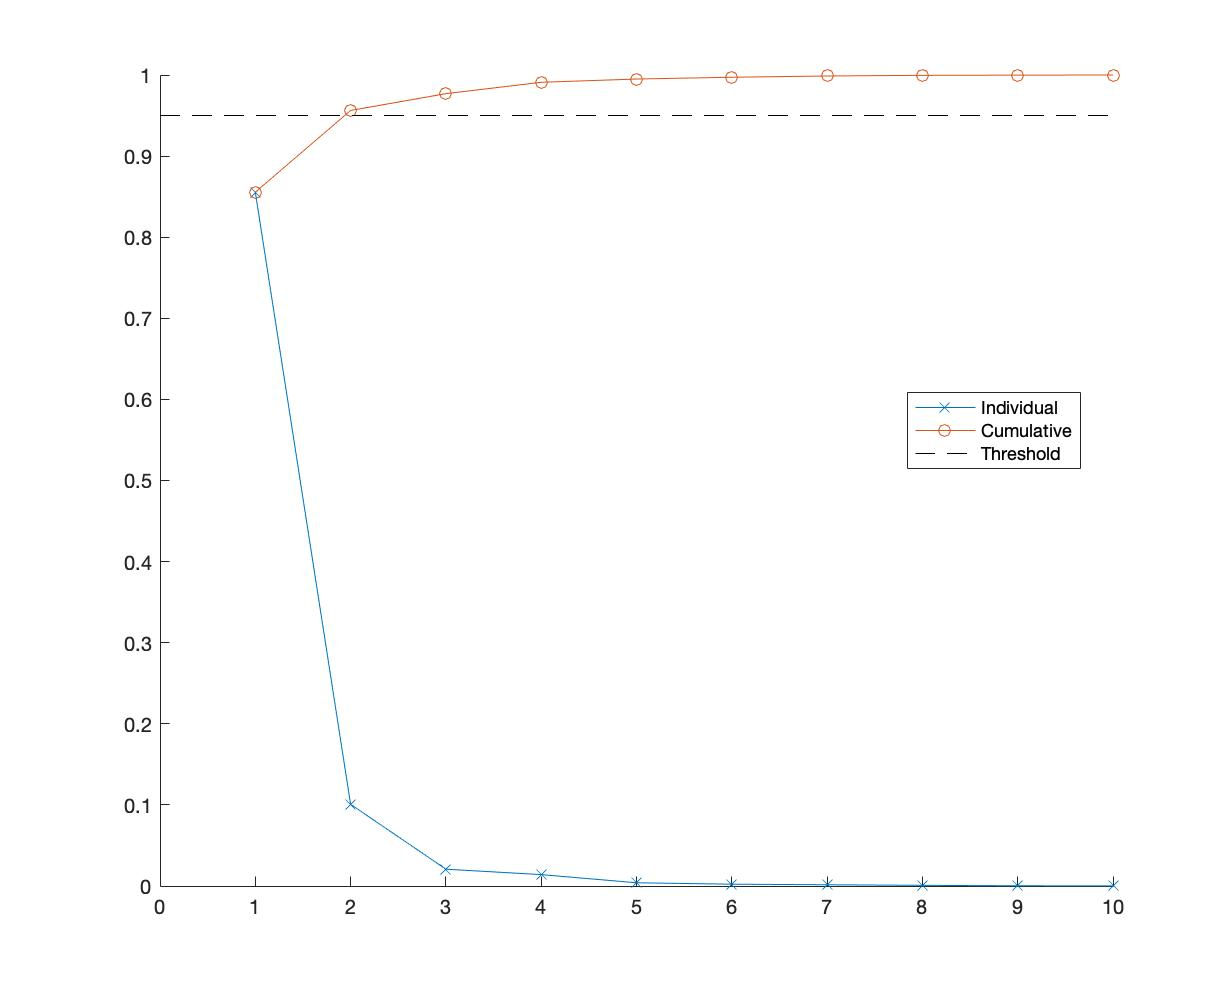
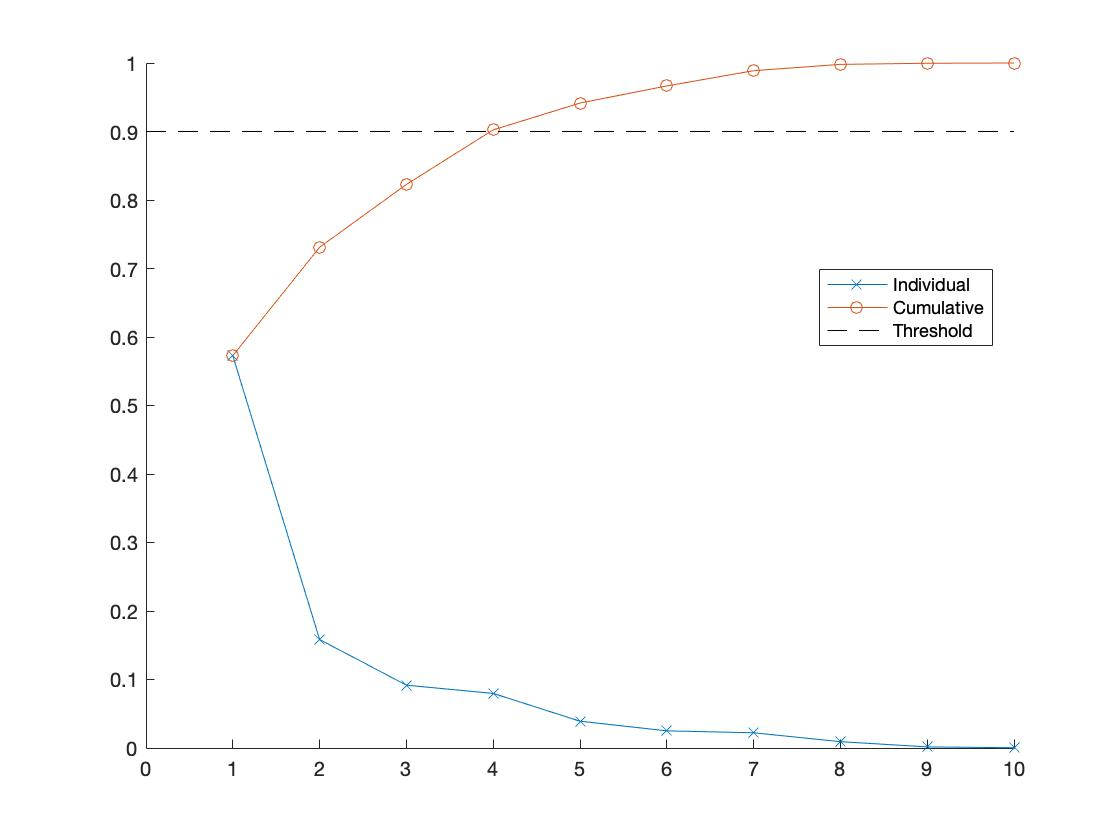
New pictures and updated PCA.m

diff --git a/PCA.m b/PCA.m
@@ -19,16 +19,16 @@ A(166,:) = [];
 class = table2array(FF_table(:,15));
 class(166) = [];
 
-% Subtracting the mean. 
-A = A - mean(A);
+% Normalizing our data. 
+Anormalized = (A - mean(A))./std(A);
 
 % Computing the SVD. 
-[U,S,V] = svd(A);
+[U,S,V] = svd(Anormalized);
 
 % Computing the explained variance.  
 rho = diag(S).^2./sum(diag(S).^2);
 
-threshold = 0.95;
+threshold = 0.90;
 
 %%
 
@@ -42,11 +42,12 @@ legend({'Individual','Cumulative','Threshold'},'Location','best');
 %%
 
 figure(2);
-gscatter(A(:,1),A(:,2),class);
+gscatter(Anormalized(:,1),Anormalized(:,2),class);
 
 %%
 
 Z = U*S;
+proj = (V'*Anormalized')';
 
 %%
 
@@ -55,17 +56,24 @@ gscatter(Z(:,1),Z(:,2),class);
 
 %%
 
-pcs = 1:2;
+% The same as figure(3). 
 
 figure(4);
-bar(V(:,1:2));
+gscatter(proj(:,1),proj(:,2),class);
+
+%%
+
+pcs = 1:4;
+
+figure(5);
+bar(V(:,1:4));
 legendCell = cellstr(num2str(pcs', 'PC%-d'));
 legend(legendCell, 'location','best');
 set(gca,'xticklabel',attributeNames);
 
 %%
 
-figure(5);
+figure(6);
 z = zeros(1,size(V,2))';
 quiver(z,z,V(:,1), V(:,2), 1,'Color', 'k','AutoScale','off','LineWidth', .1);
 hold on
